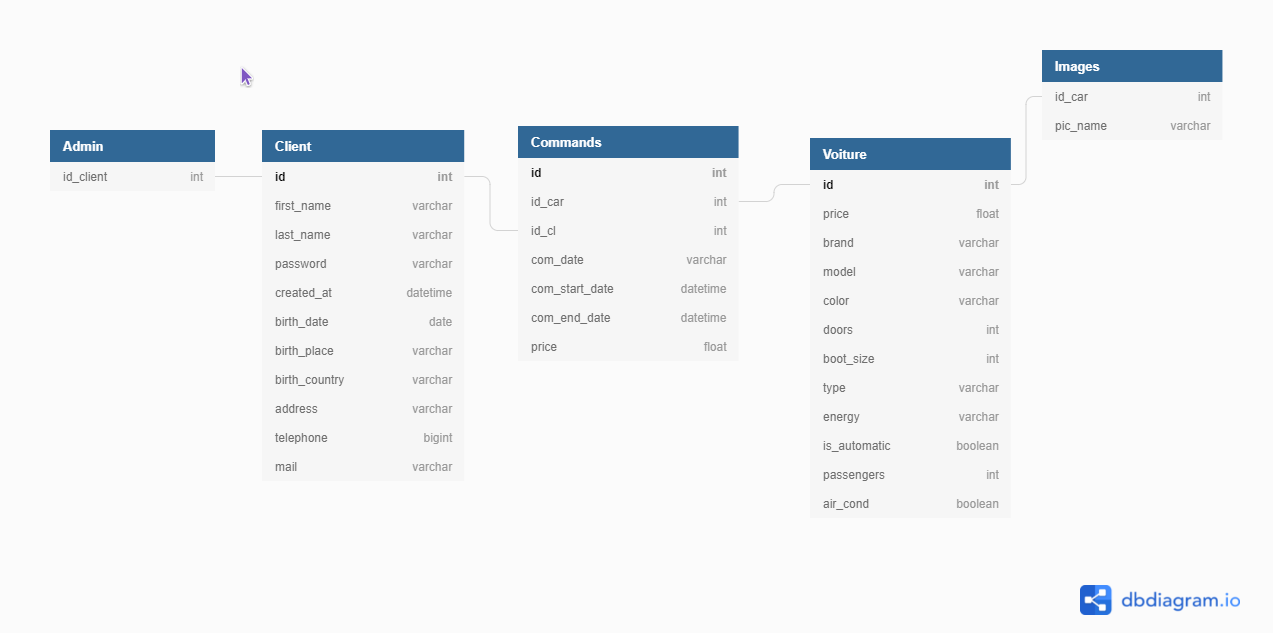
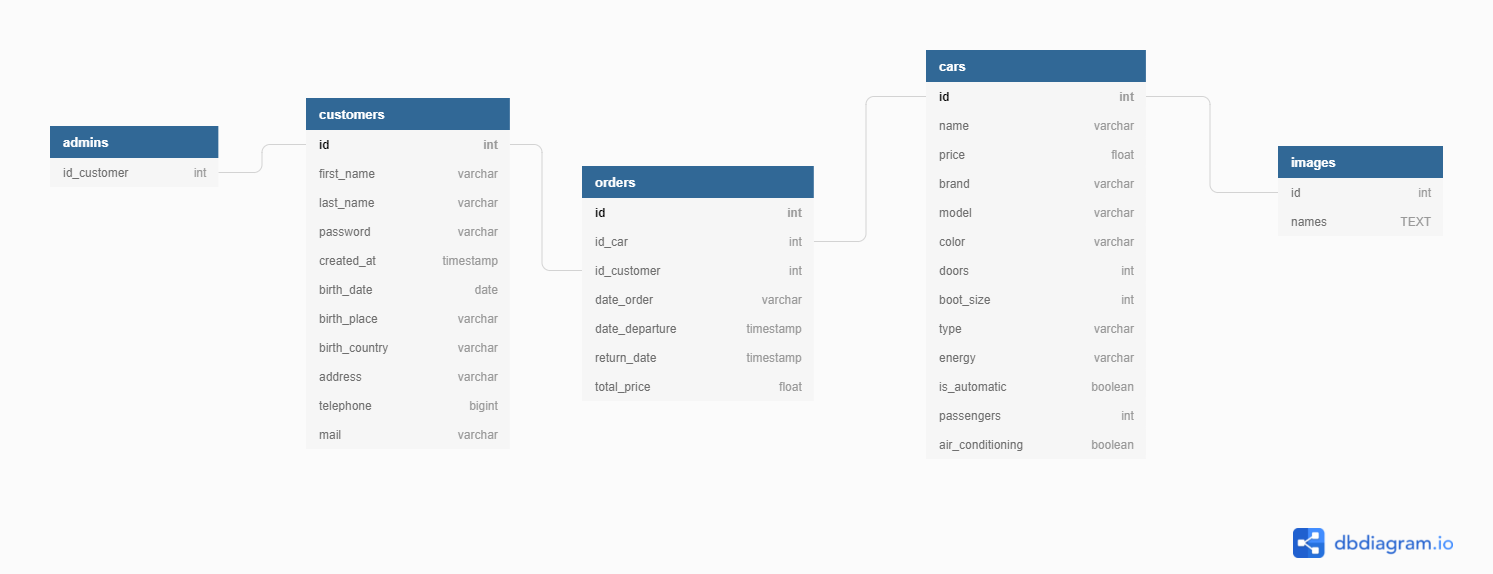
Setup Cars API & some modification

diff --git a/backend/controllers/car.js b/backend/controllers/car.js
@@ -1,41 +1,130 @@
-const db = require("../db");
-exports.addCars = async (req, res) => {
-	//controllers
-	console.log("try connection");
-	try {
-		const {
-			price,
-			brand,
-			model,
-			color,
-			doors,
-			boot_size,
-			type,
-			energy,
-			is_automatic,
-			passengers,
-			air_cond,
-		} = req.body;
-		console.log(price, brand, model, color, doors, boot_size, type);
-		const newCars = await db.query(
-			"INSERT INTO voiture(price, brand, model , color , doors , boot_size , type, energy, is_automatic, passengers, air_cond) VALUES($1,$2,$3,$4,$5,$6,$7,$8,$9,$10,$11) RETURNING *",
-			[
-				price,
-				brand,
-				model,
-				color,
-				doors,
-				boot_size,
-				type,
-				energy,
-				is_automatic,
-				passengers,
-				air_cond,
-			]
-		);
-		res.json(newCars.rows);
-		console.log("connection");
-	} catch (error) {
-		console.log(err);
-	}
+const client = require("../db");
+client.connect();
+
+const getCars = (request, response) => {
+  client.query("SELECT * FROM voitures ORDER BY id ASC", (error, results) => {
+    if (error) {
+      throw error;
+    }
+    response.status(200).json(results.rows);
+  });
+};
+
+const getCarById = (request, response) => {
+  const id = parseInt(request.params.id);
+
+  client.query(
+    "SELECT * FROM voitures WHERE id = $1",
+    [id],
+    (error, results) => {
+      if (error) {
+        throw error;
+      }
+      response.status(200).json(results.rows);
+    }
+  );
+};
+
+const addCar = (request, response) => {
+  const {
+    name,
+    price,
+    brand,
+    model,
+    color,
+    doors,
+    boot_size,
+    type,
+    energy,
+    is_automatic,
+    passengers,
+    air_conditioning,
+  } = request.body;
+
+  client.query(
+    "INSERT INTO voitures(name, price, brand, model, color, doors, boot_size, type, energy, is_automatic, passengers, air_conditioning) VALUES($1,$2,$3,$4,$5,$6,$7,$8,$9,$10,$11,$12)",
+    [
+      name,
+      price,
+      brand,
+      model,
+      color,
+      doors,
+      boot_size,
+      type,
+      energy,
+      is_automatic,
+      passengers,
+      air_conditioning,
+    ],
+    (error, results) => {
+      if (error) {
+        throw error;
+      }
+      response.status(201).send(`Cars added with ID: ${result.insertId}`);
+    }
+  );
+};
+
+const updateCar = (request, response) => {
+  const id = parseInt(request.params.id);
+  const {
+    name,
+    price,
+    brand,
+    model,
+    color,
+    doors,
+    boot_size,
+    type,
+    energy,
+    is_automatic,
+    passengers,
+    air_conditioning,
+  } = request.body;
+
+  client.query(
+    "UPDATE cars SET name=$2, price=$3, brand=$4, model=$5, color=$6, doors=$7, boot_size=$8, type=$9, energy=$10, is_automatic=$11, passengers=$12, air_conditioning=$13 WHERE id = $1",
+    [
+      id,
+      name,
+      price,
+      brand,
+      model,
+      color,
+      doors,
+      boot_size,
+      type,
+      energy,
+      is_automatic,
+      passengers,
+      air_conditioning,
+    ],
+    (error, results) => {
+      if (error) {
+        throw error;
+      }
+      response.status(200).send(`Cars modified with ID: ${id}`);
+    }
+  );
+};
+
+const deleteCar = (request, response) => {
+  const id = parseInt(request.params.id);
+
+  client.query("DELETE FROM voitures WHERE id = $1", [id], (error, results) => {
+    if (error) {
+      throw error;
+    }
+    response.status(200).send(`Cars deleted with ID: ${id}`);
+  });
+  client.end;
+};
+
+module.exports = {
+  getCars,
+  getCarById,
+  addCar,
+  updateCar,
+  deleteCar,
 };

diff --git a/backend/db.js b/backend/db.js
@@ -1,13 +1,14 @@
-const Pool = require("pg").Pool;
+const { Client } = require("pg");
 const dotenv = require("dotenv");
 dotenv.config();
-//configuration de la base de données
-const db = new Pool({
-	user: process.env.DB_USER,
-	password: process.env.DB_PASSWORD,
-	host: process.env.DB_HOST,
-	port: process.env.DB_PORT,
-	database: process.env.DB_NAME,
+
+//configuration BDD
+const client = new Client({
+  user: process.env.DB_USER,
+  password: process.env.DB_PASSWORD,
+  host: process.env.DB_HOST,
+  port: process.env.DB_PORT,
+  database: process.env.DB_NAME,
 });
 
-module.exports = db;
+module.exports = client;

diff --git a/backend/routes/car.js b/backend/routes/car.js
@@ -2,10 +2,12 @@ const express = require("express");
 const router = express.Router();
 
 const carCtrl = require("../controllers/car");
-//CONTROLLER
 
-router.post("/addCars", carCtrl.addCars);
 //API RESTFULL
+router.post("/", carCtrl.getCars);
+router.post("/:id", carCtrl.getCarById);
+router.post("/addCar", carCtrl.addCar);
+router.post("/:id", carCtrl.updateCar);
+router.post("/:id", carCtrl.deleteCar);
 
-//ROUTER
 module.exports = router;
